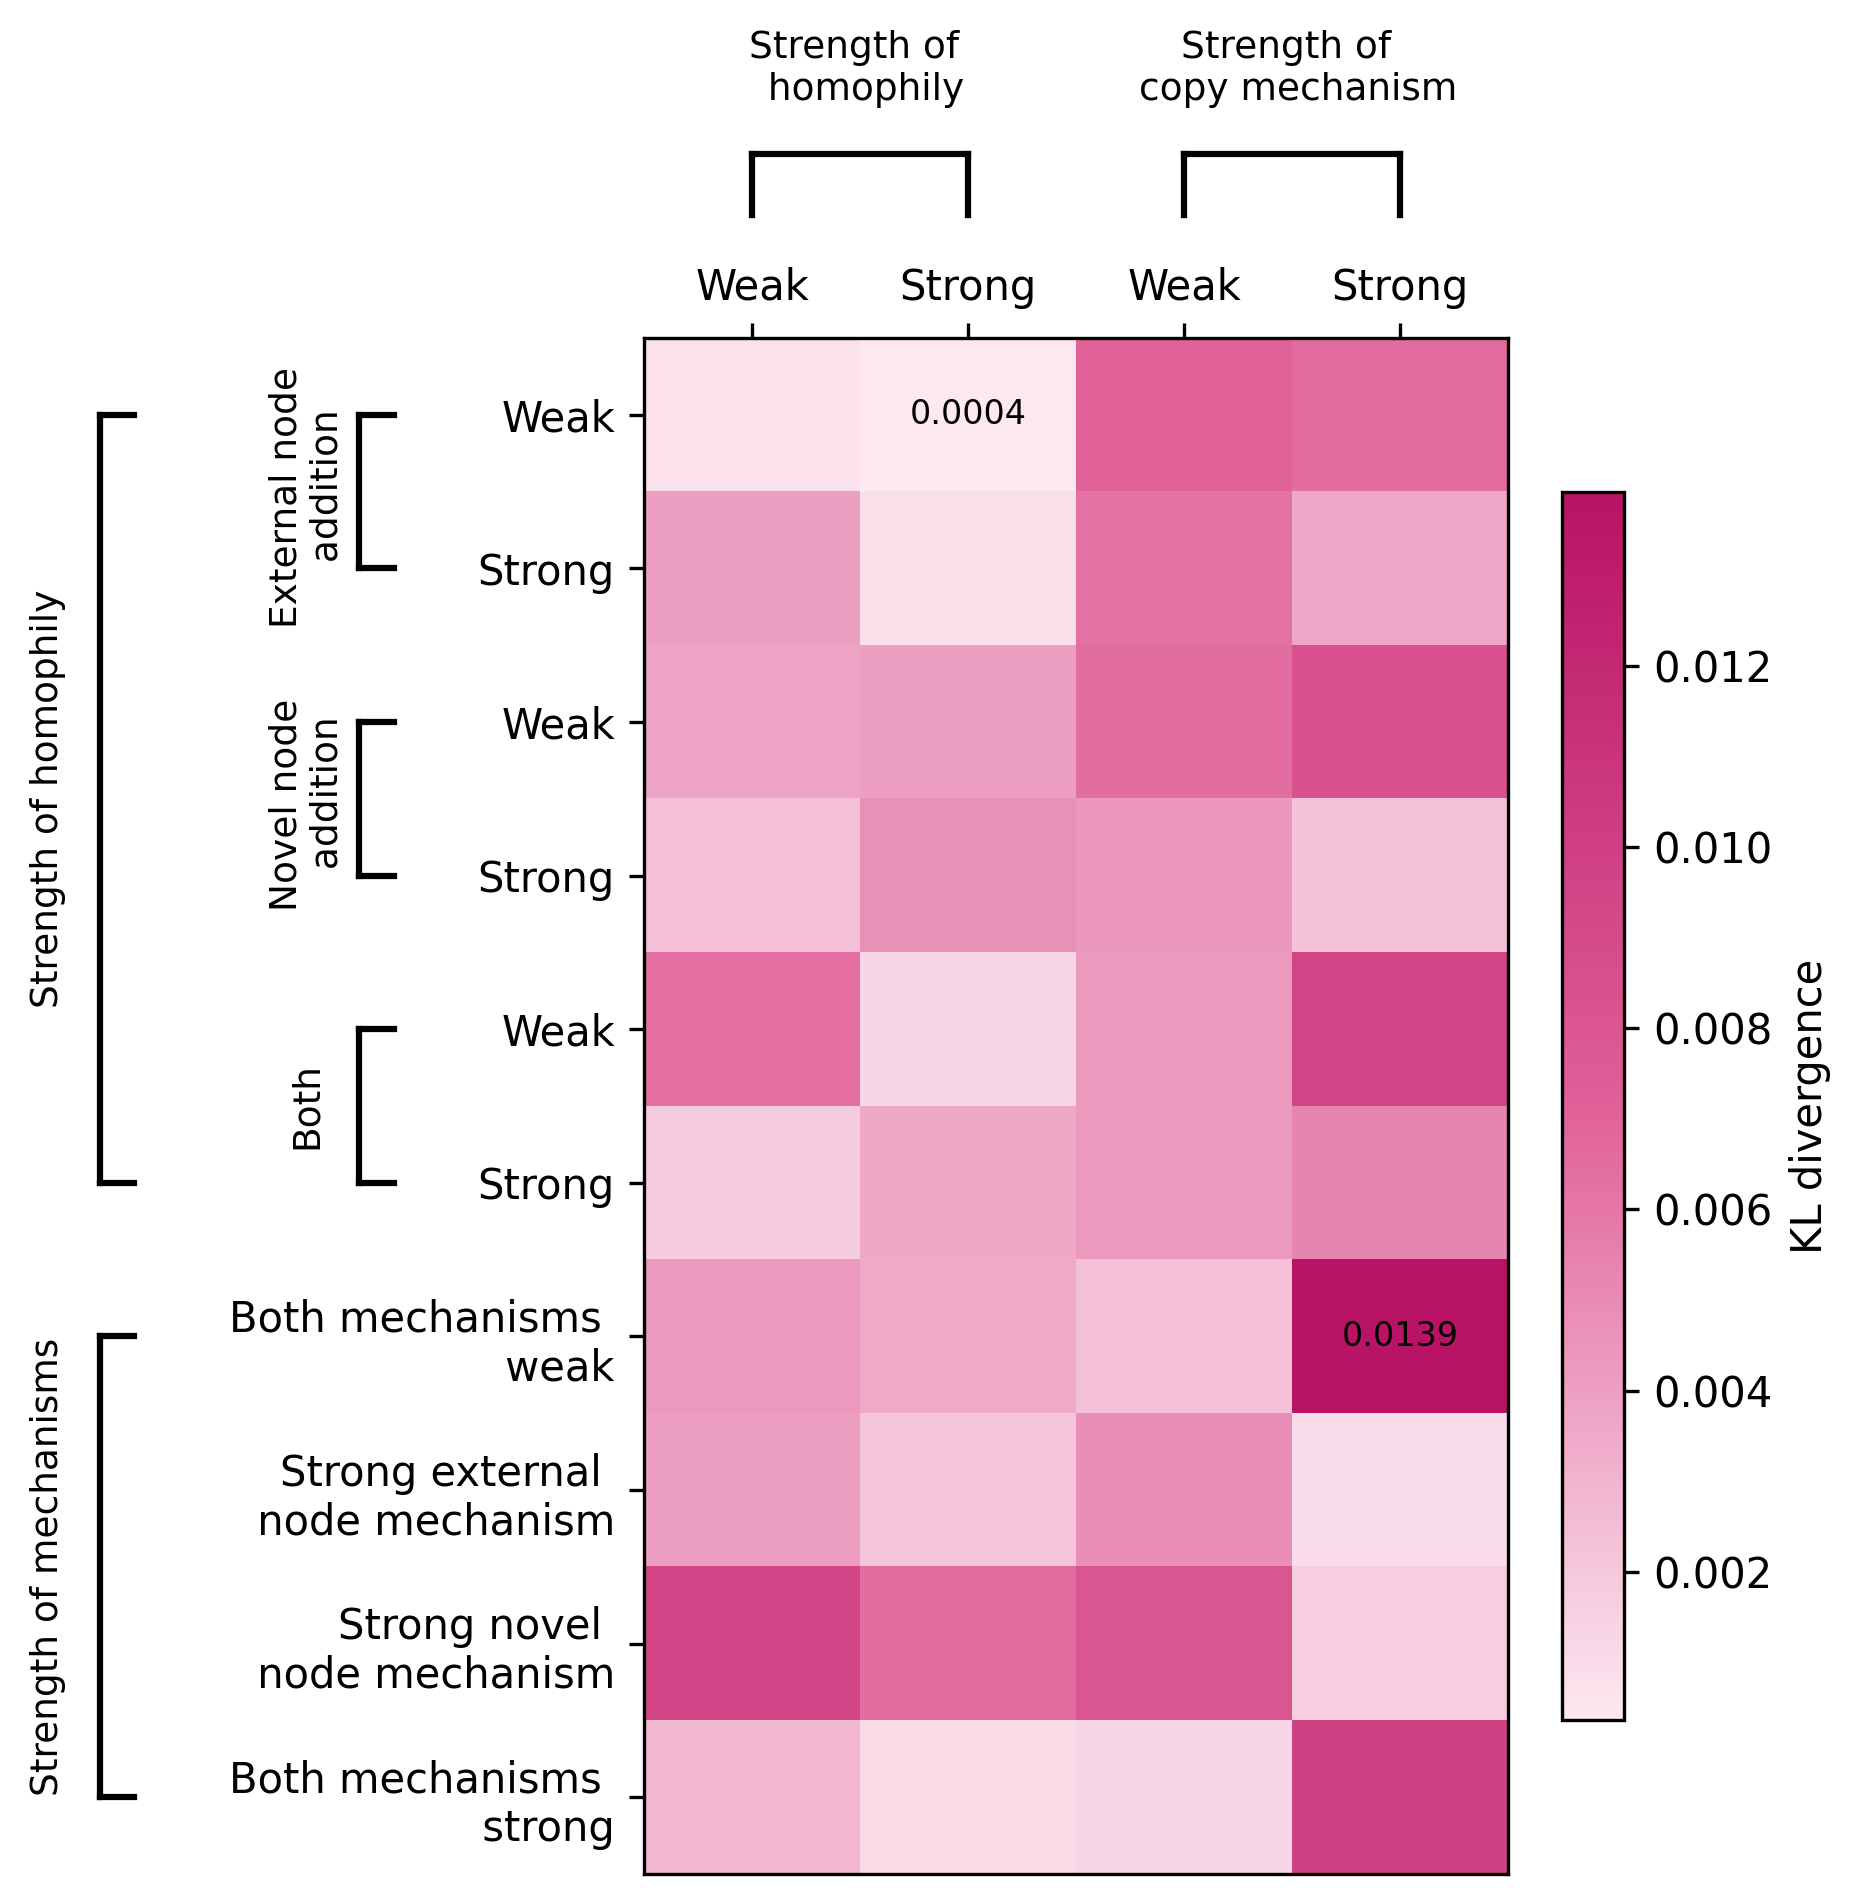
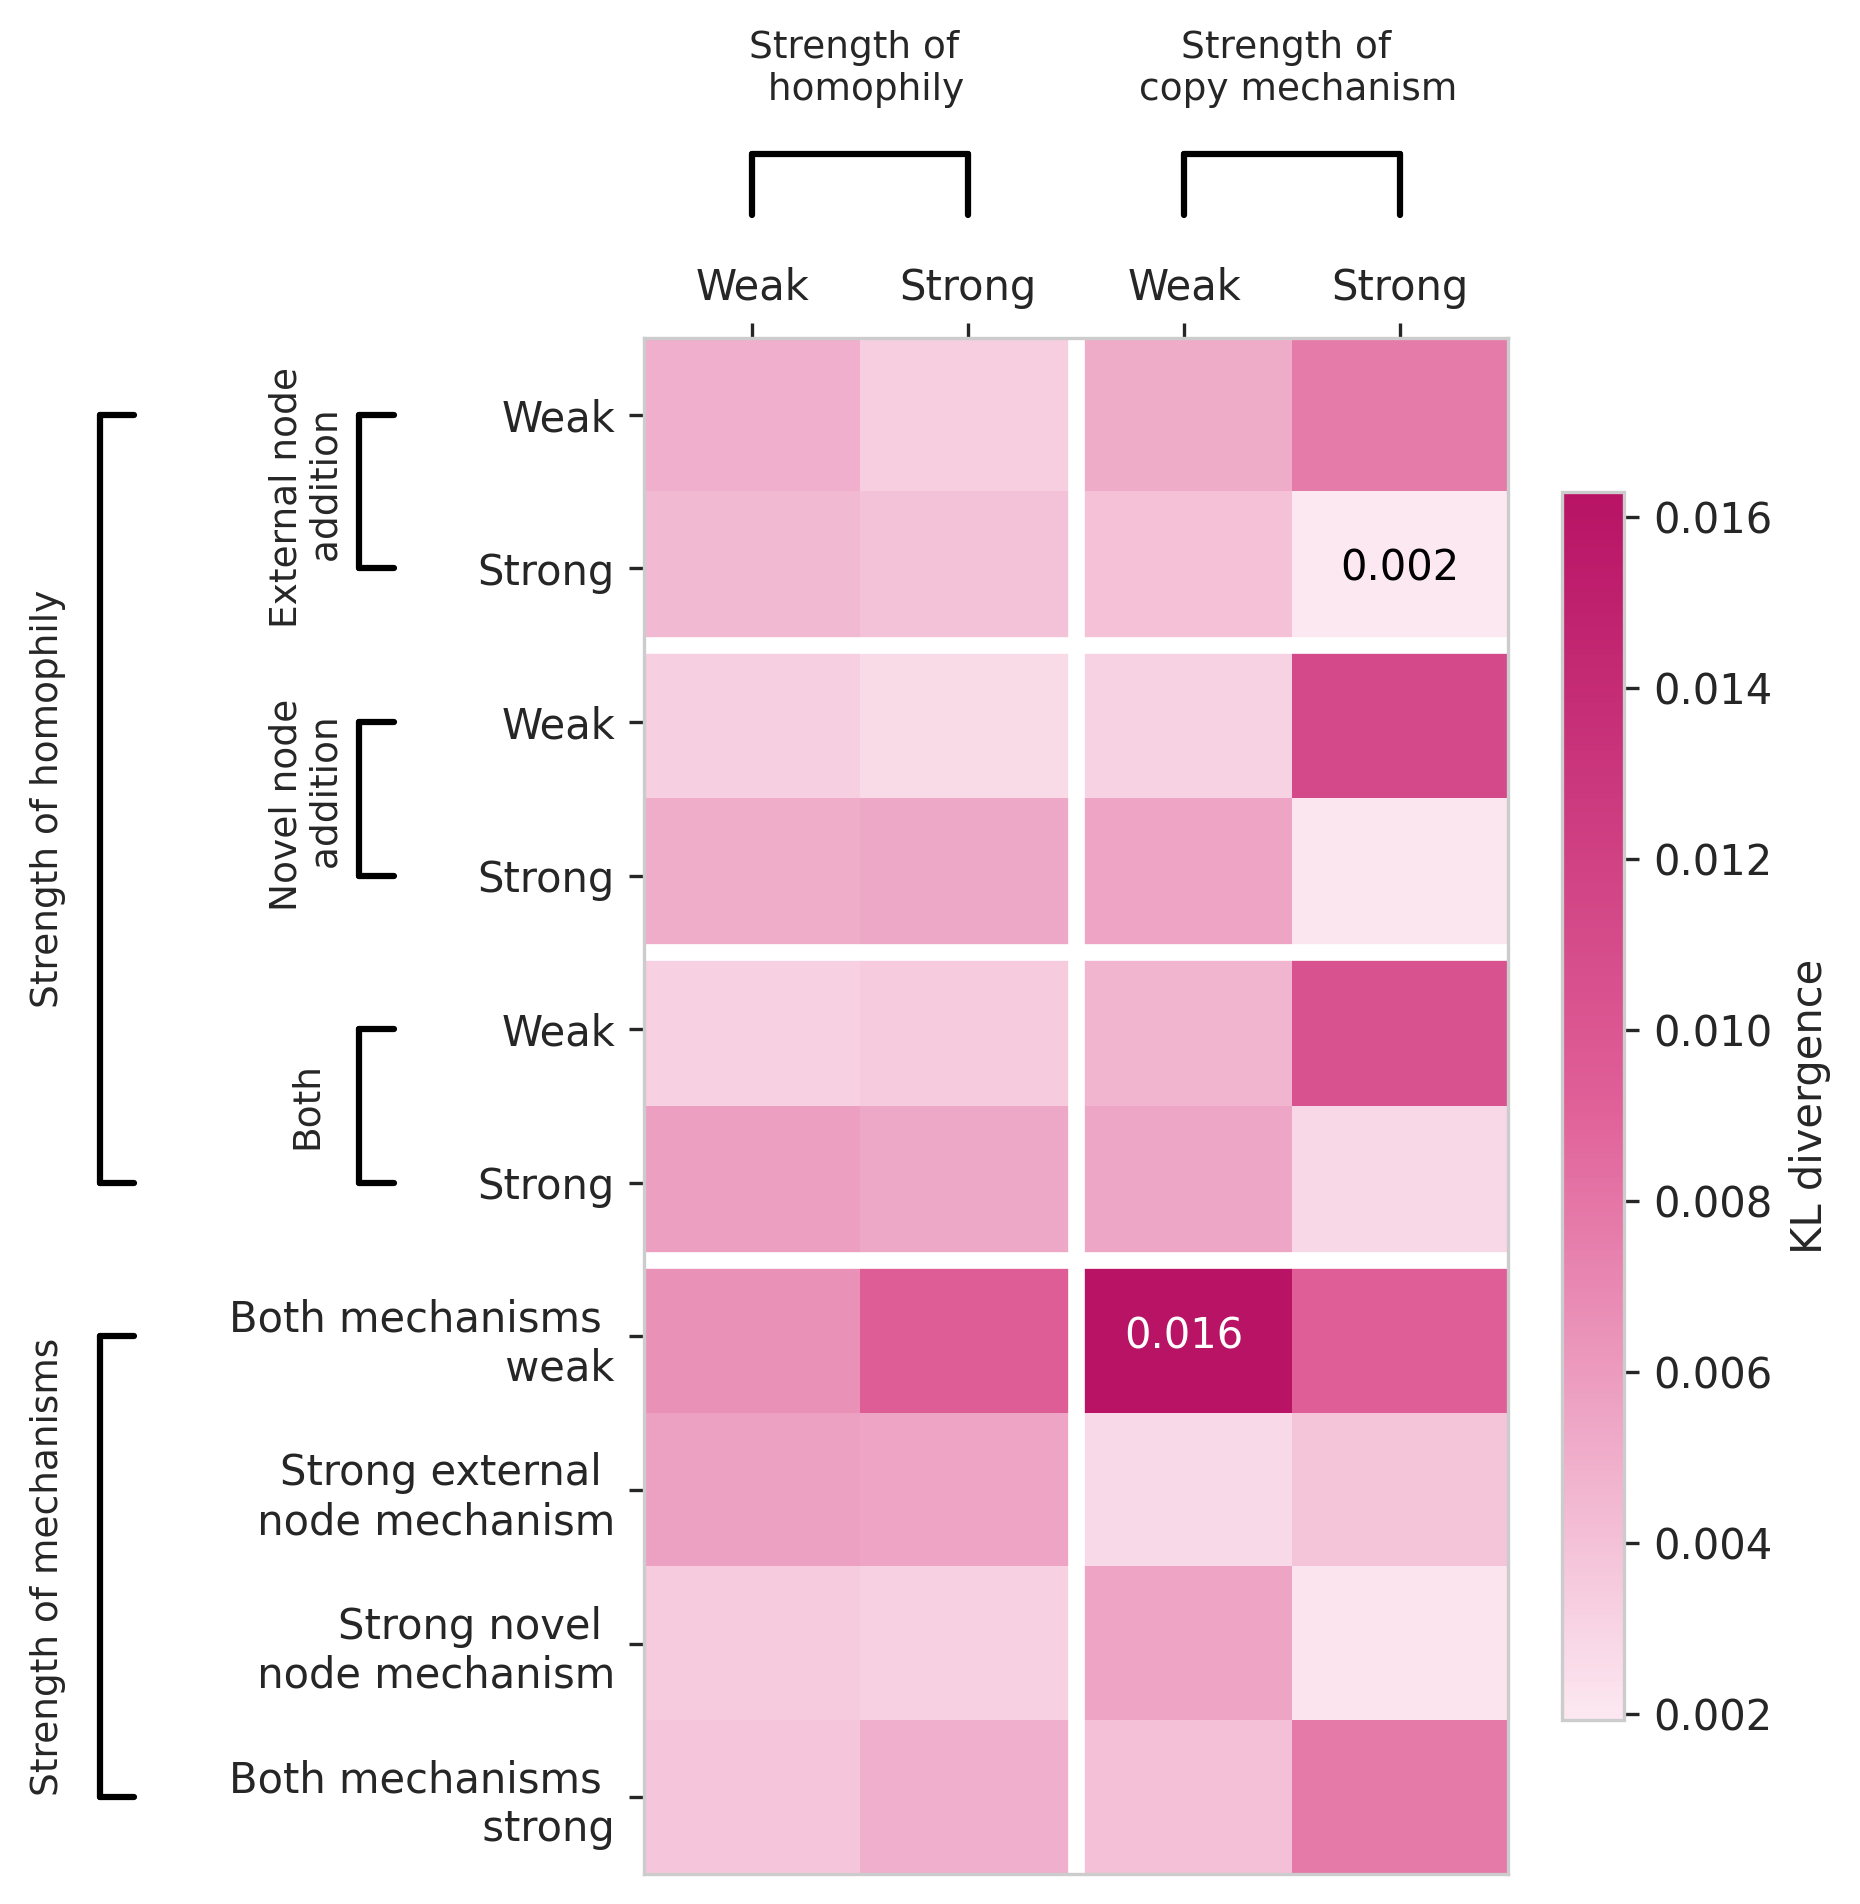
tweaks to SEM convergence heatmap

diff --git a/scripts/complete_SEM_convergence_plots.py b/scripts/complete_SEM_convergence_plots.py
@@ -179,6 +179,8 @@ plt.subplots_adjust(left=0.45, top=0.75)
 pink_gradient = LinearSegmentedColormap.from_list("pink_gradient", ["#fce8f1", "#e06098", "#B81365"])
 im = ax.imshow(kl_values, cmap=pink_gradient, aspect="auto")
 
+ax.grid(False)
+
 cbar = fig.colorbar(im, ax=ax, shrink=0.8)
 cbar.set_label("KL divergence", fontsize=10)
 
@@ -188,15 +190,25 @@ ax.xaxis.set_label_position("top")
 ax.xaxis.tick_top()
 ax.set_yticks(range(n_rows))
 ax.set_yticklabels(row_labels, fontsize=10)
+ax.yaxis.tick_left()
 
 vmin_idx = np.unravel_index(np.nanargmin(kl_values), kl_values.shape)
 vmax_idx = np.unravel_index(np.nanargmax(kl_values), kl_values.shape)
 
-for idx in [vmin_idx, vmax_idx]:
+# Visual guides for dividers
+linewidth = 4
+ax.vlines(x=1.5, ymin=-0.5, ymax=n_rows-0.5, colors="white", linestyles="solid", linewidth=linewidth)
+ax.hlines(y=1.5, xmin=-0.5, xmax=n_cols-0.5, colors="white", linestyles="solid", linewidth=linewidth)
+ax.hlines(y=3.5, xmin=-0.5, xmax=n_cols-0.5, colors="white", linestyles="solid", linewidth=linewidth)
+ax.hlines(y=5.5, xmin=-0.5, xmax=n_cols-0.5, colors="white", linestyles="solid", linewidth=linewidth)
+
+
+
+for i, idx in enumerate([vmin_idx, vmax_idx]):
     r, c = idx
     val = kl_values[r, c]
-    ax.text(c, r, f"{val:.4f}", ha="center", va="center",
-            fontsize=8, color="black")
+    ax.text(c, r, f"{val:.3f}", ha="center", va="center",
+            fontsize=10, color=["black", "white"][i])
 
 # ── 6. Y-axis brackets (left side) ───────────────────────────────────────────
 
@@ -271,3 +283,4 @@ print(np.nanmin(kl_values), np.nanmax(kl_values))
 output_path = "fig/sem_convergence_heatmap.png"
 plt.savefig(output_path, dpi=300, bbox_inches="tight")
 print(f"Saved → {output_path}")
+
